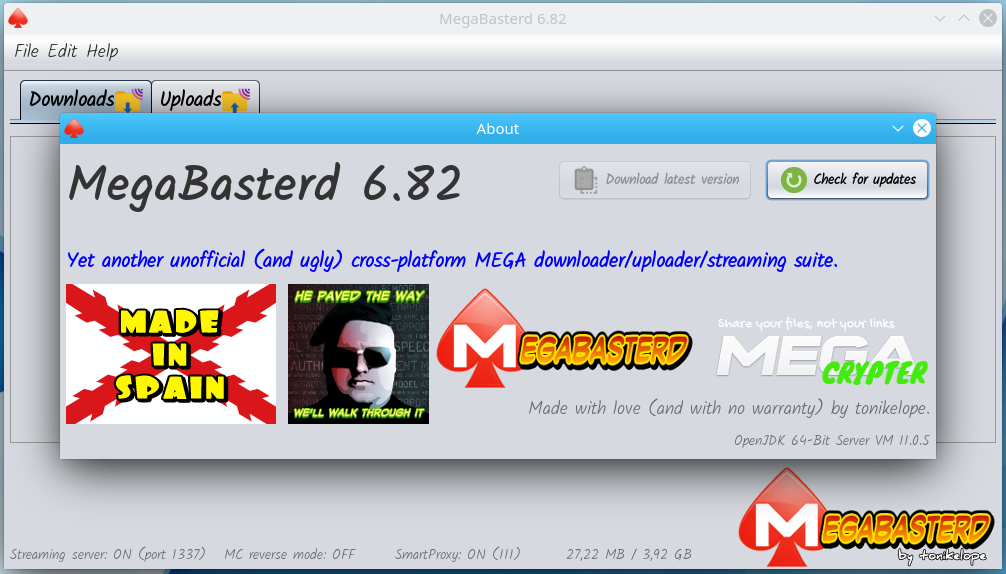
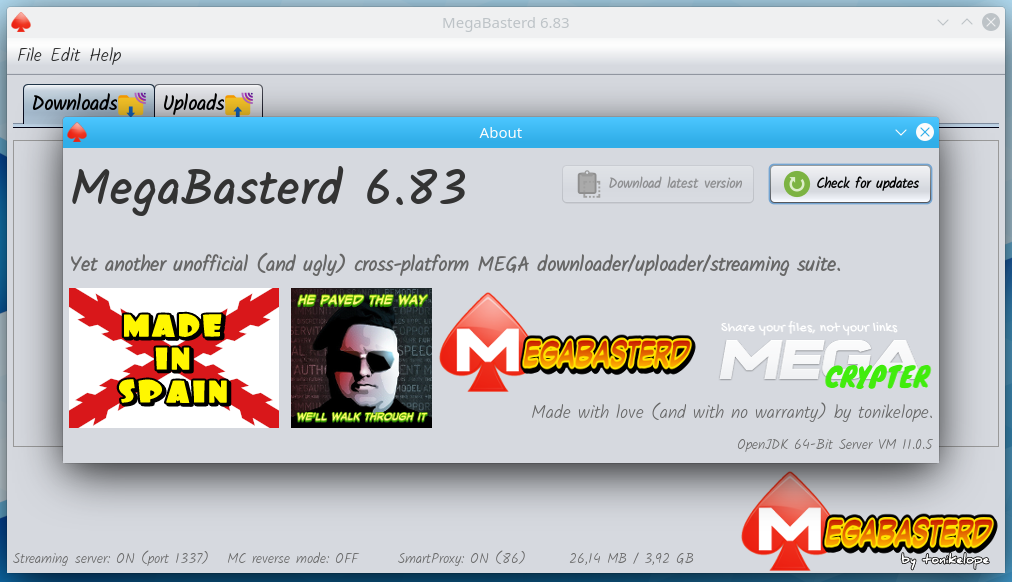
6.83
Fix https://github.com/tonikelope/megabasterd/issues/164

(cherry picked from commit 029caf23cde83113c9f481833e0a2b5271a73995)

diff --git a/src/main/java/com/tonikelope/megabasterd/MegaAPI.java b/src/main/java/com/tonikelope/megabasterd/MegaAPI.java
@@ -916,37 +916,50 @@ public class MegaAPI implements Serializable {
 
             String[] node_k = ((String) node.get("k")).split(":");
 
-            String dec_node_k = Bin2UrlBASE64(decryptKey(UrlBASE642Bin(node_k[1]), _urlBase64KeyDecode(folder_key)));
+            if (node_k.length == 2 && node_k[0] != "" && node_k[1] != "") {
 
-            HashMap at = _decAttr((String) node.get("a"), _urlBase64KeyDecode(dec_node_k));
+                try {
 
-            HashMap<String, Object> the_node = new HashMap<>();
+                    String dec_node_k = Bin2UrlBASE64(decryptKey(UrlBASE642Bin(node_k[1]), _urlBase64KeyDecode(folder_key)));
 
-            the_node.put("type", node.get("t"));
+                    HashMap at = _decAttr((String) node.get("a"), _urlBase64KeyDecode(dec_node_k));
 
-            the_node.put("parent", node.get("p"));
+                    HashMap<String, Object> the_node = new HashMap<>();
 
-            the_node.put("key", dec_node_k);
+                    the_node.put("type", node.get("t"));
 
-            if (node.get("s") != null) {
+                    the_node.put("parent", node.get("p"));
 
-                if (node.get("s") instanceof Integer) {
+                    the_node.put("key", dec_node_k);
 
-                    long size = ((Number) node.get("s")).longValue();
-                    the_node.put("size", size);
+                    if (node.get("s") != null) {
 
-                } else if (node.get("s") instanceof Long) {
+                        if (node.get("s") instanceof Integer) {
 
-                    long size = (Long) node.get("s");
-                    the_node.put("size", size);
+                            long size = ((Number) node.get("s")).longValue();
+                            the_node.put("size", size);
+
+                        } else if (node.get("s") instanceof Long) {
+
+                            long size = (Long) node.get("s");
+                            the_node.put("size", size);
+                        }
+                    }
+
+                    the_node.put("name", at.get("n"));
+
+                    the_node.put("h", node.get("h"));
+
+                    folder_nodes.put((String) node.get("h"), the_node);
+
+                } catch (Exception e) {
+                    System.out.println("WARNING: node key is not valid " + (String) node.get("k"));
                 }
+
+            } else {
+                System.out.println("WARNING: node key is not valid " + (String) node.get("k"));
             }
 
-            the_node.put("name", at.get("n"));
-
-            the_node.put("h", node.get("h"));
-
-            folder_nodes.put((String) node.get("h"), the_node);
         }
 
         return folder_nodes;

diff --git a/src/main/java/com/tonikelope/megabasterd/MainPanel.java b/src/main/java/com/tonikelope/megabasterd/MainPanel.java
@@ -53,7 +53,7 @@ import javax.swing.UIManager;
  */
 public final class MainPanel {
 
-    public static final String VERSION = "6.82";
+    public static final String VERSION = "6.83";
     public static final int THROTTLE_SLICE_SIZE = 16 * 1024;
     public static final int DEFAULT_BYTE_BUFFER_SIZE = 16 * 1024;
     public static final int STREAMER_PORT = 1337;
